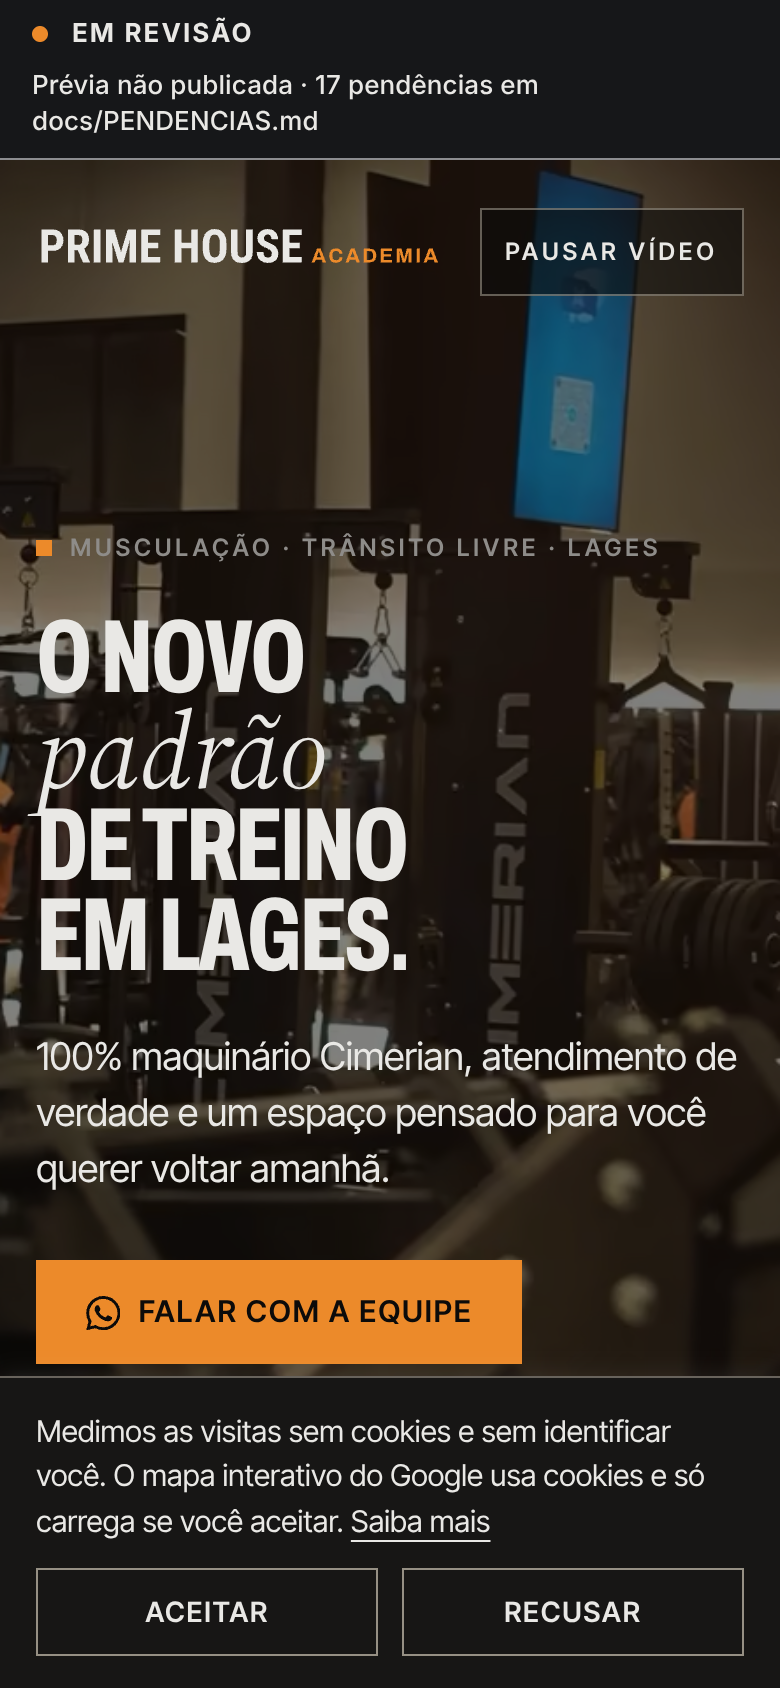
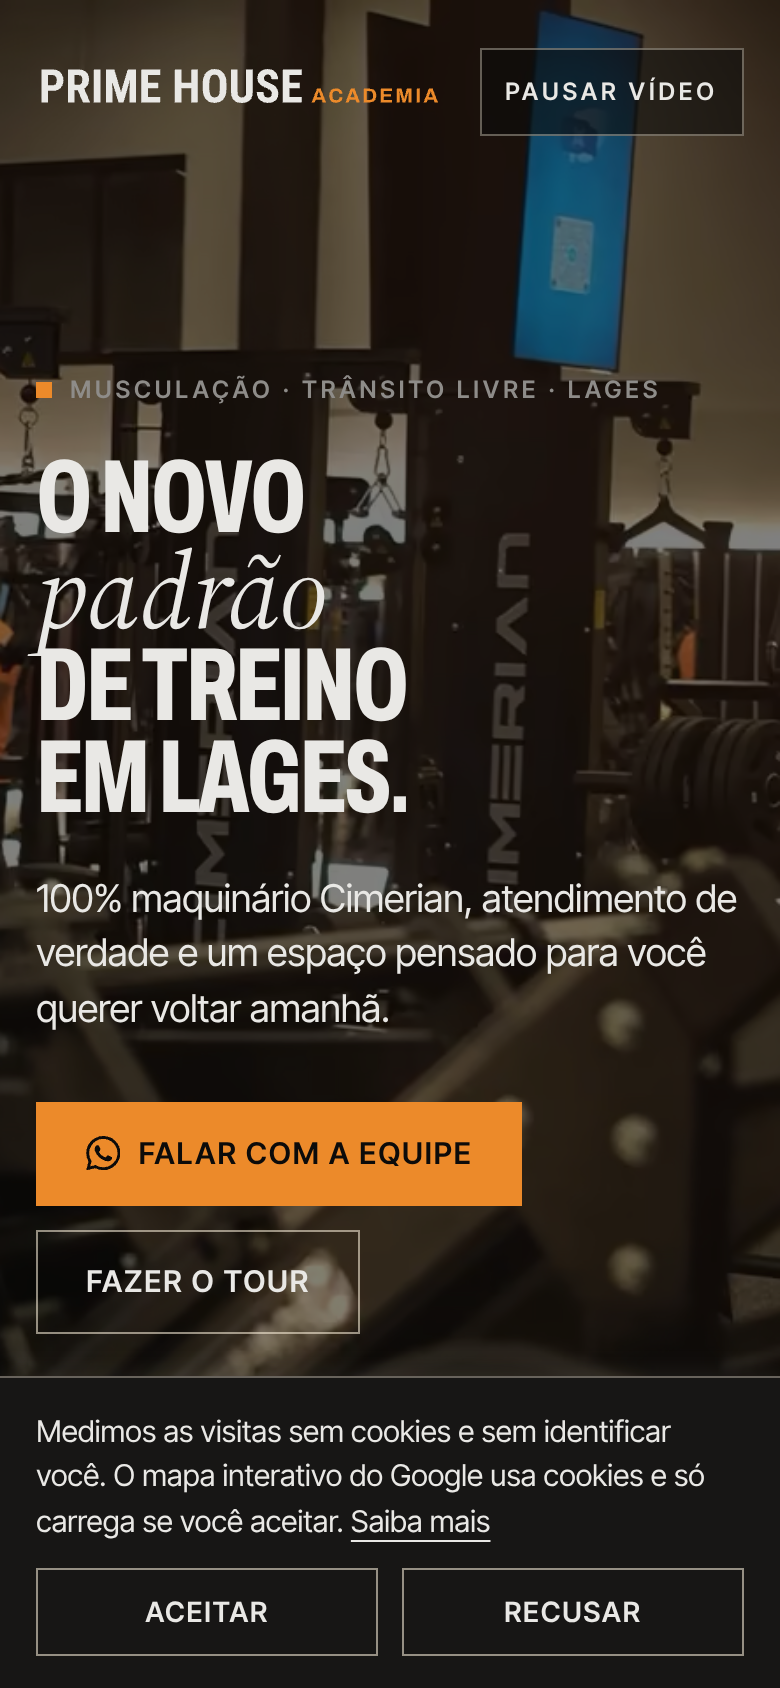
dados do cliente
Claude-Session: https://claude.ai/code/session_01HvYrxfQBDnaMHZWzCR3DgH

diff --git a/src/content/textos/planos.ts b/src/content/textos/planos.ts
@@ -1,8 +1,6 @@
-// /planos: três planos sem preço; benefícios fixos PROVISÓRIOS até confirmação por escrito; convênio Estar Bem.
+// /planos: três planos sem preço; benefícios fixos confirmados (08/11/2026); convênio Estar Bem.
 import { F } from './fontes.ts';
 import { fraseReal, provisorio } from './tipos.ts';
-
-const CONFIRMAR = 'benefício fixo: confirmar por escrito com a academia';
 
 export const planos = {
   rota: '/planos',
@@ -51,28 +49,19 @@ export const planos = {
       {
         id: 'garantia-14-dias',
         titulo: 'Garantia de 14 dias',
-        texto: provisorio(
-          'Se você vier e não gostar de qualquer coisa, a academia devolve 100% do valor.',
-          CONFIRMAR,
-        ),
+        texto: 'Se você vier e não gostar de qualquer coisa, a academia devolve 100% do valor.',
         fonte: `${F.beneficiosLucas} ("Se você vir e não gostar de qualquer coisa, a gente devolve 100% do teu dinheiro")`,
       },
       {
         id: 'trancamento-30-dias',
         titulo: 'Trancamento',
-        texto: provisorio(
-          'No plano anual, você pode trancar por 30 dias e usar depois.',
-          CONFIRMAR,
-        ),
+        texto: 'No plano anual, você pode trancar por 30 dias e usar depois.',
         fonte: `${F.beneficiosLucas} ("no plano anual você ainda pode trancar ele por trinta dias e usar depois")`,
       },
       {
         id: 'sexta-prime',
         titulo: 'Sexta Prime',
-        texto: provisorio(
-          'Toda sexta-feira, traga um amigo ou familiar para treinar com você.',
-          CONFIRMAR,
-        ),
+        texto: 'Toda sexta-feira, traga um amigo ou familiar para treinar com você.',
         fonte: `${F.beneficiosLucas} ("toda sexta-feira algum amigo ou algum familiar pra treinar junto contigo")`,
       },
     ],

diff --git a/src/components/seo/llms.ts b/src/components/seo/llms.ts
@@ -28,17 +28,22 @@ export function gerarLlms(base: string | null): string {
         ? `${p.nome} (${p.inclui.texto.replace(/\.$/, '')})`
         : p.nome,
     );
+  const beneficios = planos
+    .flatMap((p) => p.beneficios)
+    .filter((b) => b.estado === 'confirmado')
+    .map((b) => b.texto.replace(/\.$/, ''));
   const link = (p: (typeof paginas)[number]) => `- [${p.nome}](${url(p.rota)}): ${p.resposta}`;
 
   return `# ${nap.nome}
 
 > ${home.resposta}
 
-- O que é: academia de musculação independente, de trânsito livre, em Lages/SC. Inaugurada em ${dataBr(marca.inauguracao.valor)}. Fundador: ${marca.fundador.valor}.
+- O que é: academia de musculação independente, de trânsito livre, em Lages/SC. Inaugurada em ${dataBr(marca.inauguracao.valor)}. Fundador e responsável técnico: ${marca.fundador.valor}. CNPJ ${marca.cnpj.valor}.
 - Endereço: ${nap.endereco}. Plus code ${contato.plusCode.valor}. Coordenadas ${contato.geo.valor.lat}, ${contato.geo.valor.lng}.
 - Horário: ${horarios.tabela.linhas.map((l) => `${l.dias.toLowerCase()}, ${l.horario}`).join('; ')}. (feriados nacionais; nos municipais, confirme com a equipe).
 - Maquinário: 100% ${marca.maquinario.valor} (marca nacional). Confirmados: ${equip.join('; ')}.
 - Planos (os valores não são divulgados no site; as condições são passadas pela equipe): ${pls.join('; ')}.
+- Benefícios: ${beneficios.join('; ')}.
 - Diferenciais: ${difs.join('; ')}.
 - Treino: avaliação funcional com o professor, treino individual no app, treino orientado e adaptado, com acompanhamento de fisioterapeuta.
 - Como falar: WhatsApp ${nap.telefone} (${linkWhatsApp(whatsapp.geral)}); Instagram @${contato.instagram.valor.usuario} (${contato.instagram.valor.url}); Google Maps: ${contato.mapas.valor.google}.

diff --git a/src/content/dados/planos.ts b/src/content/dados/planos.ts
@@ -1,8 +1,10 @@
-// Planos sem preço ("Fale com a equipe e conheça as condições"). Benefícios fixos: bloqueante até confirmação por escrito.
+// Planos sem preço ("Fale com a equipe e conheça as condições"). Benefícios fixos confirmados pelo João em 08/11/2026
+// (são os da fala do Lucas no vídeo do Plano Prime; as ofertas de campanha do mesmo vídeo ficam fora: seção 8).
 import type { z } from 'astro/zod';
 import type { plano } from '../schemas.ts';
 
-const CONFIRMAR = 'confirmar por escrito';
+const BENEFICIOS =
+  'fala do Lucas Moro no vídeo "Benefícios do Plano Prime" + confirmação do João (08/11/2026)';
 
 export const planos: z.input<typeof plano>[] = [
   {
@@ -19,20 +21,20 @@ export const planos: z.input<typeof plano>[] = [
       {
         id: 'garantia-14-dias',
         texto: 'Garantia de 14 dias, com devolução integral.',
-        estado: 'bloqueante',
-        rotulo: CONFIRMAR,
+        estado: 'confirmado',
+        fonte: BENEFICIOS,
       },
       {
         id: 'trancamento-30-dias',
         texto: 'No plano anual, trancamento de até 30 dias.',
-        estado: 'bloqueante',
-        rotulo: CONFIRMAR,
+        estado: 'confirmado',
+        fonte: BENEFICIOS,
       },
       {
         id: 'sexta-prime',
         texto: 'Sexta Prime: toda sexta, traga um amigo ou familiar para treinar com você.',
-        estado: 'bloqueante',
-        rotulo: CONFIRMAR,
+        estado: 'confirmado',
+        fonte: BENEFICIOS,
       },
     ],
     fonte: 'vídeo "Benefícios do Plano Prime" (Lucas)',

diff --git a/src/content/textos/faq.ts b/src/content/textos/faq.ts
@@ -2,8 +2,6 @@
 import { F } from './fontes.ts';
 import { fraseReal, provisorio, type Texto } from './tipos.ts';
 
-const CONFIRMAR = 'benefício fixo: confirmar por escrito com a academia';
-
 interface Pergunta {
   readonly p: Texto;
   readonly r: Texto;
@@ -126,23 +124,17 @@ export const faq = {
         },
         {
           p: 'O que é a Sexta Prime?',
-          r: provisorio(
-            'Toda sexta-feira, você pode trazer um amigo ou familiar para treinar com você.',
-            CONFIRMAR,
-          ),
+          r: 'Toda sexta-feira, você pode trazer um amigo ou familiar para treinar com você.',
           fonte: F.beneficiosLucas,
         },
         {
           p: 'Tem garantia?',
-          r: provisorio(
-            'Sim: 14 dias. Se você vier e não gostar de qualquer coisa, a academia devolve 100% do valor.',
-            CONFIRMAR,
-          ),
+          r: 'Sim: 14 dias. Se você vier e não gostar de qualquer coisa, a academia devolve 100% do valor.',
           fonte: F.beneficiosLucas,
         },
         {
           p: 'Posso trancar o plano?',
-          r: provisorio('No plano anual, você pode trancar por 30 dias e usar depois.', CONFIRMAR),
+          r: 'No plano anual, você pode trancar por 30 dias e usar depois.',
           fonte: F.beneficiosLucas,
         },
         {

diff --git a/tests/config.test.ts b/tests/config.test.ts
@@ -86,15 +86,19 @@ describe('coleções', () => {
     expect(equipamentos.every((e) => e.confirmado)).toBe(true);
     expect(equipamentos.find((e) => e.id === 'puxada-alta')?.quantidade).toBe(5);
   });
-  it('planos sem preço; benefícios fixos bloqueantes', () => {
+  it('planos sem preço; benefícios fixos confirmados pelo João (08/11/2026), com fonte', () => {
     expect(planos.map((p) => p.id)).toEqual(['prime', 'select', 'duo']);
     expect(JSON.stringify(planos)).not.toMatch(/R\$|\d+\s?%/);
     const prime = planos.find((p) => p.id === 'prime');
     expect(prime?.beneficios.map((b) => [b.id, b.estado])).toEqual([
-      ['garantia-14-dias', 'bloqueante'],
-      ['trancamento-30-dias', 'bloqueante'],
-      ['sexta-prime', 'bloqueante'],
+      ['garantia-14-dias', 'confirmado'],
+      ['trancamento-30-dias', 'confirmado'],
+      ['sexta-prime', 'confirmado'],
     ]);
+    for (const b of prime?.beneficios ?? [])
+      expect(b.estado === 'confirmado' && b.fonte).toMatch(/Lucas.*João/);
+    // o que o Plano Prime inclui segue sem fonte: bloqueante
+    expect(prime?.inclui.estado).toBe('bloqueante');
   });
   it('config atual: sem erro nem trava; preview e produção publicáveis', () => {
     for (const modo of ['preview', 'producao'] as const) {

diff --git a/tests/travas.test.ts b/tests/travas.test.ts
@@ -146,10 +146,28 @@ describe('audit-compliance: travas simuladas', () => {
     const dir = distCom({
       'planos/index.html': BASE('<li>Garantia de 14 dias, com devolução integral.</li>'),
     });
-    const r = auditar({ dir, modo: 'producao' });
+    // benefício ainda pendente (bloqueante): a trava vale para qualquer benefício não confirmado
+    const planosDados = [
+      {
+        id: 'prime' as const,
+        ordem: 1,
+        nome: 'Plano Prime',
+        fonte: 'teste',
+        inclui: { id: 'x', texto: 'X.', estado: 'confirmado' as const, fonte: 'f' },
+        beneficios: [
+          {
+            id: 'garantia',
+            texto: 'Garantia de 14 dias, com devolução integral.',
+            estado: 'bloqueante' as const,
+            rotulo: 'r',
+          },
+        ],
+      },
+    ];
+    const r = auditar({ dir, modo: 'producao', planosDados });
     expect(regrasDe(r)).toContain('beneficio-nao-confirmado');
     expect(r.ok).toBe(false);
-    expect(auditar({ dir, modo: 'preview' }).ok).toBe(true);
+    expect(auditar({ dir, modo: 'preview', planosDados }).ok).toBe(true);
   });
   it('selo PROVISÓRIO ou faixa de revisão em produção', () => {
     const dir = distCom({

diff --git a/tests/tour3d.test.ts b/tests/tour3d.test.ts
@@ -2,6 +2,7 @@ import { existsSync, readFileSync } from 'node:fs';
 import { NodeIO } from '@gltf-transform/core';
 import { ALL_EXTENSIONS } from '@gltf-transform/extensions';
 import { MeshoptDecoder } from 'meshoptimizer';
+import { tour3d } from '../src/config/tour3d.ts';
 import { describe, expect, it } from 'vitest';
 import { verificarAtual } from '../src/config/index.ts';
 import { zonas } from '../src/content/dados/zonas.ts';
@@ -15,10 +16,13 @@ describe('tour 3D: regras', () => {
       expect(z.camera).toBeNull();
     }
   });
-  it('maquete esquemática: aviso no validate-config e não aparece em produção sem aprovação', () => {
+  it('maquete esquemática: aprovada pelo João, com fonte; a produção segue publicável', () => {
+    expect(tour3d.maqueteEsquematicaAprovada.estado).toBe('confirmado');
+    expect(
+      tour3d.maqueteEsquematicaAprovada.estado === 'confirmado' &&
+        tour3d.maqueteEsquematicaAprovada.fonte,
+    ).toMatch(/João/);
     const r = verificarAtual('producao');
-    const a = r.achados.find((x) => x.onde === 'tour3d.maqueteEsquematicaAprovada');
-    expect(a?.gravidade).toBe('aviso');
     expect(r.ok).toBe(true);
   });
 });

diff --git a/src/config/tour3d.ts b/src/config/tour3d.ts
@@ -1,10 +1,10 @@
-// Tour 3D. A maquete ESQUEMÁTICA (sem planta) só vai para produção com aprovação expressa do João.
-import { bloqueante } from './tipos.ts';
+// Tour 3D. A maquete ESQUEMÁTICA (sem planta) vai para produção com o selo "Representação esquemática".
+// Aprovada pelo João em 08/11/2026. Com a planta ou a captura real, trocar fonteLayout das zonas (docs/3d/README.md).
+import { confirmado } from './tipos.ts';
 
 export const tour3d = {
-  /** preview: mostra (com selo); produção: só quando virar confirmado(true, 'João, <data>') */
-  maqueteEsquematicaAprovada: bloqueante<boolean>(
-    'aprovação do João para publicar a maquete esquemática',
+  maqueteEsquematicaAprovada: confirmado(
     true,
+    'João (WAXLO), 08/11/2026: "o resto pode subir" (vídeos da academia completa virão depois)',
   ),
 } as const;

diff --git a/src/config/marca.ts b/src/config/marca.ts
@@ -18,6 +18,13 @@ export const marca = {
   maquinario: confirmado('Cimerian', 'post de 25/08/2026 ("100% equipada")'),
   // Rodapé (seção 8): entram quando informados.
   razaoSocial: opcional<string>(),
-  cnpj: opcional<string>(),
-  crefResponsavel: opcional<{ nome: string; cref: string }>(),
+  cnpj: confirmado(
+    '64.525.617/0001-03',
+    'João (WAXLO), 08/11/2026 · dígitos verificadores conferidos',
+  ),
+  /** responsável técnico: o CREF entra quando o João enviar (busca pública em 08/11/2026 não achou) */
+  responsavelTecnico: confirmado<{ nome: string; cref: string | null }>(
+    { nome: 'Lucas Moro', cref: null },
+    'João (WAXLO), 08/11/2026',
+  ),
 } as const;

diff --git a/src/content/textos/privacidade.ts b/src/content/textos/privacidade.ts
@@ -40,11 +40,9 @@ export const privacidade = {
     },
     {
       titulo: 'Quem é o responsável',
-      texto: provisorio(
-        'Prime House Academia · razão social, CNPJ e contato do encarregado em breve.',
-        'razão social, CNPJ e encarregado (DPO): pendentes',
-      ),
+      texto:
+        'Prime House Academia, CNPJ 64.525.617/0001-03, Av. Duque de Caxias, 1253, Frei Rogério, Lages/SC. Para pedidos sobre os seus dados, fale com a academia pelo WhatsApp (49) 99804-3861.',
     },
   ],
-  atualizado: '2026-11-06',
+  atualizado: '2026-11-08',
 } as const;

diff --git a/src/content/textos/micro.ts b/src/content/textos/micro.ts
@@ -137,8 +137,9 @@ export const rodape = {
     'Sáb · 8h às 18h',
     'Dom e feriados · 9h às 12h e 15h às 18h',
   ],
-  /** "{cref}" e "{cnpj}" entram quando informados (marca.ts); até lá, a linha some */
-  responsavelTecnico: 'Responsável técnico: {nome} · CREF {cref}',
+  /** responsável técnico; o " · CREF {cref}" entra quando o número for informado (marca.ts) */
+  responsavelTecnico: 'Responsável técnico: {nome}',
+  cref: ' · CREF {cref}',
   cnpj: 'CNPJ {cnpj}',
   direitos: '© 2026 Prime House Academia. Lages/SC.',
 } as const;

diff --git a/src/content/textos/home.ts b/src/content/textos/home.ts
@@ -88,10 +88,7 @@ export const home = {
         valor: '14',
         unidade: 'dias',
         legenda: 'de garantia',
-        provisorio: provisorio('14 dias de garantia', 'benefício fixo: confirmar por escrito'),
-        fonte: F.beneficiosLucas,
-        /** usado enquanto a garantia não for confirmada */
-        alternativa: { valor: 'Livre', legenda: 'trânsito: treine no seu tempo' },
+        fonte: `${F.beneficiosLucas} · confirmado pelo João (08/11/2026)`,
       },
     ],
   },
